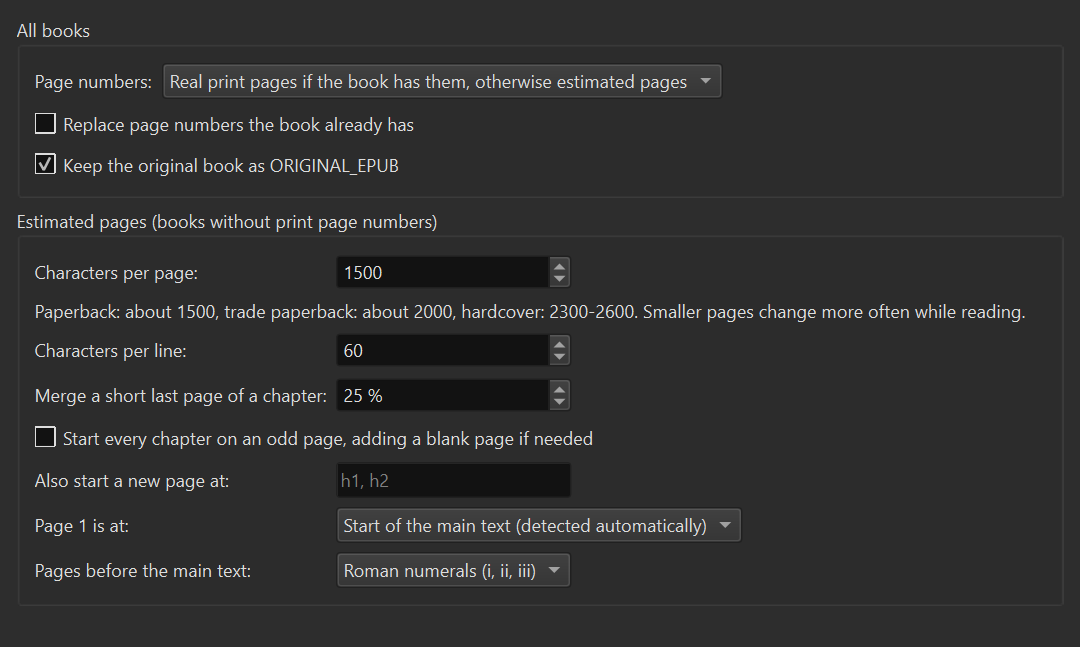
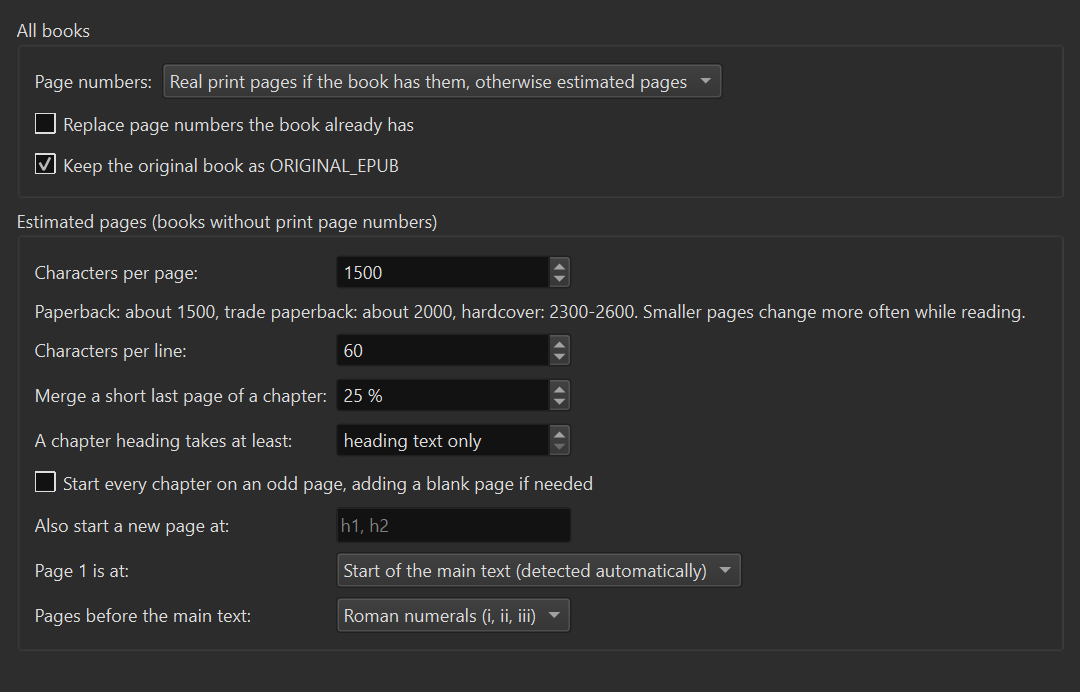
Add chapter heading space setting (chapter sink), release 1.1.0
A heading that opens a page can now take a set share of the page,
together with the space around it, so the first page of a chapter
holds less text, as in printed books and on a Kindle screen.

- core: chapter_sink option and --chapter-sink CLI flag; applies only
  to h1-h6 headings at the top of a page, off by default
- settings: "A chapter heading takes at least: N %"
- Russian translation, README (en/ru) and screenshots updated
- tests for the first-page size and for headings inside a page
- bump version to 1.1.0

diff --git a/plugin/core.py b/plugin/core.py
@@ -72,6 +72,7 @@ DEFAULTS = {
     'first_page': 1,
     'recto': False,             # every spine document starts on an odd page
     'min_last_page': 0.0,       # merge a shorter last page of a section into the previous
+    'chapter_sink': 0.0,        # share of a page taken by the heading that opens a page
     'include_nonlinear': False,
     'force': False,             # replace an existing page-list
 }
@@ -424,6 +425,11 @@ class Paginator:
             self.new_page(idx, offset)
         self.used += self.image_lines
 
+    def sink(self, lines):
+        """The heading area at the top of a page occupies at least this many lines."""
+        if not self.pending:
+            self.used = max(self.used, lines)
+
     def force_break(self, recto=False):
         self.end_block()
         if (not self.pending and len(self.pages) - 1 > self.section_first
@@ -440,12 +446,16 @@ def paginate(book, opts, docs=None, first_number=None):
     pg.first_number = opts.first_page if first_number is None else first_number
     pg.min_last = opts.min_last_page
     break_on = {t.strip().lower() for t in opts.break_on.split(',') if t.strip()}
+    sink_lines = opts.chapter_sink * pg.lpp
+    opening = False     # the headings that open the current page are being read
+    headings = 0        # depth of open heading elements
     for idx, (path, linear) in enumerate(book.spine):
         if docs is not None and idx not in docs:
             continue
         if not linear and not opts.include_nonlinear:
             continue
         pg.force_break(opts.recto and pg.pages)
+        opening, headings = False, 0
         stack = []      # names of open elements that force a break when closed
         skip = None     # name of the skipped element we are inside
         skip_depth = 0
@@ -474,6 +484,10 @@ def paginate(book, opts, docs=None, first_number=None):
                     pg.force_break()
                 elif name in BLOCKS:
                     pg.end_block()
+                if name in HEADING_EXTRA and not selfclose:
+                    if pg.pending and sink_lines:
+                        opening = True
+                    headings += 1
                 if name in ('img', 'image'):
                     pg.image(idx, start)
                 after = css_match(book.break_after, name, attrs) or style_break(attrs, 'after')
@@ -503,6 +517,10 @@ def paginate(book, opts, docs=None, first_number=None):
                         break
                 if name in BLOCKS:
                     pg.end_block(HEADING_EXTRA.get(name, 0))
+                if name in HEADING_EXTRA and headings:
+                    headings -= 1
+                    if opening:
+                        pg.sink(sink_lines)
                 if after:
                     pg.force_break()
             elif kind == 'text' and in_body and not skip:
@@ -515,6 +533,8 @@ def paginate(book, opts, docs=None, first_number=None):
                         n = len(ENTITY_RE.sub('x', tok))
                         if tok in ('&#160;', '&nbsp;') and not pg.chars:
                             continue  # empty-paragraph spacer
+                        if opening and not headings:
+                            opening = False  # body text: the page opening is over
                         pg.word(idx, start + m.start(2), n)
     pg.force_break()
     return pg.pages
@@ -882,6 +902,10 @@ def main():
                     help='a section\'s last page filled less than this share (e.g. 0.25) '
                          'is merged into the previous page, like a typesetter avoids '
                          'stray lines (default 0 = off)')
+    ap.add_argument('--chapter-sink', type=float, default=0,
+                    help='share of a page (e.g. 0.3) taken by a heading that opens a page, '
+                         'with its spacing: the first page of a chapter holds less text '
+                         '(default 0 = only the heading text and a few lines)')
     ap.add_argument('--include-nonlinear', action='store_true',
                     help='also paginate spine items marked linear="no"')
     ap.add_argument('--force', action='store_true', help='replace an existing page-list')

diff --git a/plugin/config.py b/plugin/config.py
@@ -13,6 +13,7 @@ prefs.defaults['keep_original'] = True
 prefs.defaults['chars_per_page'] = 2000
 prefs.defaults['chars_per_line'] = 60
 prefs.defaults['min_last_page'] = 0      # percent of a page
+prefs.defaults['chapter_sink'] = 0       # percent of a page
 prefs.defaults['recto'] = False
 prefs.defaults['break_on'] = ''
 prefs.defaults['page_one'] = 'auto'      # auto | book
@@ -28,6 +29,7 @@ def core_options():
         chars_per_page=prefs['chars_per_page'],
         chars_per_line=prefs['chars_per_line'],
         min_last_page=prefs['min_last_page'] / 100,
+        chapter_sink=prefs['chapter_sink'] / 100,
         recto=prefs['recto'],
         break_on=prefs['break_on'],
         body_start='auto' if prefs['page_one'] == 'auto' else None,
@@ -100,6 +102,13 @@ class ConfigWidget(QWidget):
             'previous page, as typesetters do. Fewer page numbers are skipped when a chapter '
             'ends on Kindle.'))
         form.addRow(_('Merge a short last page of a chapter:'), self.min_last_page)
+        self.chapter_sink = spin(0, 80, prefs['chapter_sink'], 5, ' %')
+        self.chapter_sink.setSpecialValueText(_('heading text only'))
+        self.chapter_sink.setToolTip(_(
+            'Share of a page taken by a heading that opens a page, together with the space '
+            'around it. The first page of a chapter then holds less text, as in printed '
+            'books, where it is usually 20-30 %.'))
+        form.addRow(_('A chapter heading takes at least:'), self.chapter_sink)
         self.recto = QCheckBox(_('Start every chapter on an odd page, adding a blank page if needed'))
         self.recto.setChecked(prefs['recto'])
         form.addRow(self.recto)
@@ -120,7 +129,8 @@ class ConfigWidget(QWidget):
             ('number', _('Normal numbering')),
         ], prefs['front'])
         form.addRow(_('Pages before the main text:'), self.front)
-        numbers = (self.chars_per_page, self.chars_per_line, self.min_last_page)
+        numbers = (self.chars_per_page, self.chars_per_line, self.min_last_page,
+                   self.chapter_sink)
         width = max(box.sizeHint().width() for box in numbers)
         for box in numbers + (self.break_on,):
             box.setFixedWidth(width)
@@ -134,6 +144,7 @@ class ConfigWidget(QWidget):
         prefs['chars_per_page'] = self.chars_per_page.value()
         prefs['chars_per_line'] = self.chars_per_line.value()
         prefs['min_last_page'] = self.min_last_page.value()
+        prefs['chapter_sink'] = self.chapter_sink.value()
         prefs['recto'] = self.recto.isChecked()
         prefs['break_on'] = self.break_on.text().strip()
         prefs['page_one'] = self.page_one.currentData()

diff --git a/tests/test_core.py b/tests/test_core.py
@@ -167,6 +167,28 @@ class CoreTest(unittest.TestCase):
         merged, _ = self.run_process(src, chars_per_page=cpp, min_last_page=0.25)
         self.assertEqual(merged['pages'], plain['pages'] - 1)
 
+    def test_chapter_sink_shortens_only_the_first_page(self):
+        src = self.build([('c1.xhtml', '<h1>Chapter 1</h1>' + paragraphs(40))])
+
+        def page_sizes(**opts):
+            with core.Book(src) as book:
+                text = book.texts[book.spine[0][0]]
+                offs = [off for _, off in core.paginate(book, core.options(
+                    chars_per_page=1800, chars_per_line=0, **opts))]
+            return [len(re.sub(r'<[^>]+>', '', text[a:b])) for a, b in zip(offs, offs[1:])]
+
+        plain, sunk = page_sizes(), page_sizes(chapter_sink=0.3)
+        self.assertLess(sunk[0], 0.75 * plain[0])
+        self.assertGreater(sunk[0], 0.65 * plain[0])
+        self.assertAlmostEqual(sunk[1], plain[1], delta=40)
+
+    def test_chapter_sink_ignores_headings_inside_a_page(self):
+        # 7 + 35 lines of text fit one 50-line page; a sink of 25 lines at the heading would not
+        body = paragraphs(1) + '<h2>Section</h2>' + paragraphs(5)
+        src = self.build([('c1.xhtml', body)])
+        sunk, _ = self.run_process(src, chars_per_page=3000, chapter_sink=0.5)
+        self.assertEqual(sunk['pages'], 1)
+
     def test_recto_adds_blank_pages(self):
         chapters = [('c%d.xhtml' % n, paragraphs(1, seed=n)) for n in range(1, 4)]
         result, z = self.run_process(self.build(chapters), chars_per_page=5000, recto=True)

diff --git a/plugin/__init__.py b/plugin/__init__.py
@@ -2,7 +2,7 @@
 from calibre.customize import InterfaceActionBase
 
 PLUGIN_NAME = 'Owl EPUB Pages'
-PLUGIN_VERSION = (1, 0, 0)
+PLUGIN_VERSION = (1, 1, 0)
 
 
 class OwlEpubPagesPlugin(InterfaceActionBase):

diff --git a/README.ru.md b/README.ru.md
@@ -74,6 +74,7 @@
 | Символов на странице | Размер расчётной страницы с пробелами. Карманная книга ≈ 1500, мягкая обложка ≈ 2000, твёрдая ≈ 2300–2600. Чем меньше страница, тем чаще она меняется на Kindle. |
 | Символов в строке | Концы абзацев округляются до целой строки (по умолчанию 60); 0 — считать просто символы. |
 | Присоединять короткую последнюю страницу главы | Если последняя страница главы заполнена меньше указанного, её текст переносится на предыдущую страницу. На Kindle реже пропускаются номера в конце главы. |
+| Заголовок главы занимает не меньше | Доля страницы, которую занимает заголовок в начале страницы вместе с отступами. Первая страница главы вмещает меньше текста. В печатных книгах это около 20–30 %; на экране Kindle крупный заголовок занимает примерно треть. |
 | Начинать каждую главу с нечётной страницы | Добавляет номер пустой страницы там, где в бумажной книге была бы пустая левая страница. |
 | Новая страница также с тегов | Дополнительные HTML-теги, с которых начинается новая страница, например `h1, h2`. |
 | Страница 1 | Начало основного текста: по разметке книги (landmarks / guide) или по первой «Chapter 1» / «Глава 1» / «Пролог»; либо начало книги. |
@@ -86,7 +87,7 @@
 ```bash
 python plugin/core.py book.epub                        # создаёт "book (pages).epub"
 python plugin/core.py --check *.epub                   # покажет ли Kindle страницы
-python plugin/core.py book.epub --chars-per-page 1500 --min-last-page 0.25 --body-start auto
+python plugin/core.py book.epub --chars-per-page 1500 --min-last-page 0.25 --chapter-sink 0.3 --body-start auto
 python plugin/core.py printed.epub --compare --fit     # калибровка по книге с настоящими страницами
 ```
 

diff --git a/README.md b/README.md
@@ -74,6 +74,7 @@ What the check results mean:
 | Characters per page | Size of an estimated page, spaces included. Paperback ≈ 1500, trade paperback ≈ 2000, hardcover ≈ 2300–2600. Smaller pages turn more often on Kindle. |
 | Characters per line | Paragraph ends are rounded up to whole lines (default 60); 0 counts plain characters. |
 | Merge a short last page of a chapter | If a chapter's last page would be filled less than this, it is squeezed onto the previous page. On Kindle, fewer page numbers are skipped at chapter ends. |
+| A chapter heading takes at least | Share of a page taken by a heading that opens a page, with the space around it, so the first page of a chapter holds less text. Printed books use about 20–30 %; on a Kindle screen a large heading takes about a third. |
 | Start every chapter on an odd page | Adds a blank page number where a printed book would have a blank left page. |
 | Also start a new page at | Extra HTML tags that start a new page, e.g. `h1, h2`. |
 | Page 1 is at | The start of the main text, found from the book's landmarks or guide, or from the first "Chapter 1" / "Prologue"; or the start of the book. |
@@ -86,7 +87,7 @@ What the check results mean:
 ```bash
 python plugin/core.py book.epub                        # writes "book (pages).epub"
 python plugin/core.py --check *.epub                   # how likely Kindle shows pages
-python plugin/core.py book.epub --chars-per-page 1500 --min-last-page 0.25 --body-start auto
+python plugin/core.py book.epub --chars-per-page 1500 --min-last-page 0.25 --chapter-sink 0.3 --body-start auto
 python plugin/core.py printed.epub --compare --fit     # calibrate on a book with real pages
 ```
 
